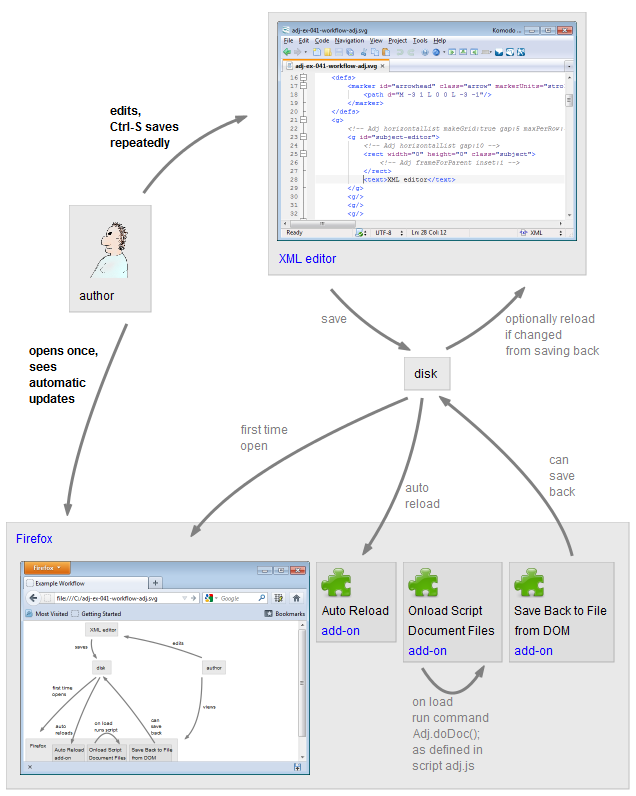
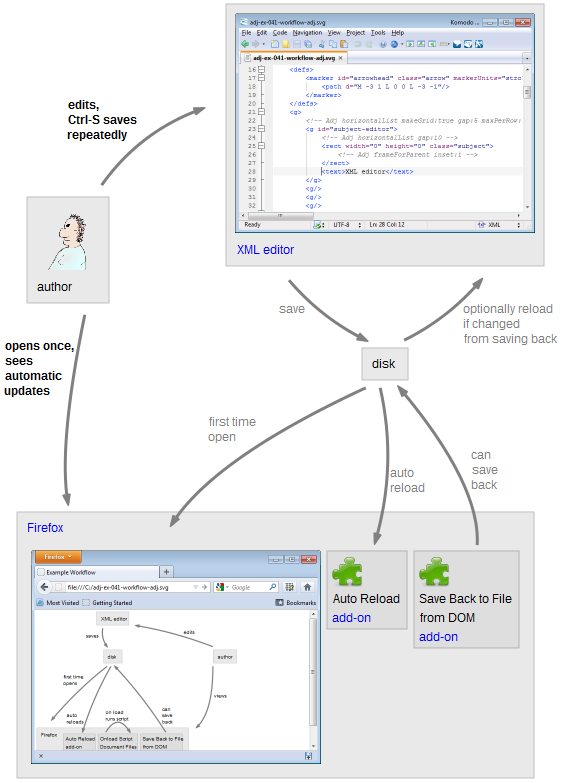
Remove most references to Onload add-on

diff --git a/user-docs/index.html b/user-docs/index.html
@@ -71,10 +71,10 @@ h1,h2,h3,h4,h5,h6 {
 <h1>Adj Framework</h1>
 
 <p class="deemphasize">Note: This user guide's SVG images show in modern
-browsers, i.e. Firefox, Chrome, Safari, Opera, Internet Explorer 9 and newer.
+browsers, i.e. Firefox, Chrome, Safari, Opera, Internet Explorer 10 and newer.
 Older versions Internet Explorer, 8 and earlier, show the <code>alt</code> tag
 text of those <code>img</code> elements instead. Internet Explorer users will
-be <a href="#L2433">better off</a> with Internet Explorer 11 anyway.</p>
+be <a href="#L2433">better off</a> with Internet Explorer 11 and newer.</p>
 
 <div class="toc">
 <ul>
@@ -3346,7 +3346,7 @@ auxiliary authoring tools used.</p>
 <ul>
   <li>Requirements 
     <ul>
-      <li>an XML editor<span class="deemphasize">, e.g. awesome <span
+      <li>an XML editor<span class="deemphasize">, e.g. excellent <span
         class="product-name">Altova <a
         href="http://www.altova.com/xml-editor/">XMLSpy</a></span>, <span
         class="product-name">Adobe <a
@@ -3362,18 +3362,11 @@ auxiliary authoring tools used.</p>
         <ul>
           <li><span class="product-name">Auto Reload</span>, from <a
             href="https://addons.mozilla.org/en-US/firefox/addon/auto-reload/">https://addons.mozilla.org/en-US/firefox/addon/auto-reload/</a><span
-            class="deemphasize">, e.g. version 1.13</span></li>
+            class="deemphasize">, e.g. version 1.20</span></li>
           <li><span class="product-name">Save Back to File from DOM</span>, aka
             <code>save-back-to-file-from-dom.xpi</code>, from <a
             href="https://addons.mozilla.org/en-US/firefox/addon/save-back-to-file-from-dom/">https://addons.mozilla.org/en-US/firefox/addon/save-back-to-file-from-dom/</a><span
-            class="deemphasize">, e.g. 1.rev22</span></li>
-          <li>only if wanting implicit <a href="#L6329">invocation</a> then –
-            <span class="product-name">Onload Script Some Document
-            Files</span>, aka
-            <code>onload-script-some-document-files.xpi</code>, from <a
-            href="https://addons.mozilla.org/en-US/firefox/addon/onload-script-some-documents/">https://addons.mozilla.org/en-US/firefox/addon/onload-script-some-documents/</a><span
-            class="deemphasize">, e.g. 1.rev42</span> – not needed for
-            explicit invocation</li>
+            class="deemphasize">, e.g. 1.0.26</span></li>
         </ul>
       </li>
       <li>Set up a directory which will contain files</li>
@@ -3388,10 +3381,7 @@ auxiliary authoring tools used.</p>
       <li>write SVG in XML editor</li>
       <li>save to disk</li>
       <li>open in <span class="product-name">Firefox</span> browser</li>
-      <li>watch the effects of invocation <span class="deemphasize">– if
-        implicit invocation then courtesy of the <span
-        class="product-name">Onload Script Some Document Files</span>
-        add-on</span></li>
+      <li>watch the effects of invocation</li>
       <li>keep fixing SVG in editor and saving to disk</li>
       <li>keep watching the effects of automatic reloading, courtesy of the
         <span class="product-name">Auto Reload</span> add-on</li>
@@ -3497,8 +3487,8 @@ href="https://addons.mozilla.org/en-US/firefox/addon/onload-script-some-document
 class="product-name">Onload Script Some Document Files</span></a> can do the
 necessary script injection, effecting implicit invocation.</p>
 
-<p>Implicit invocation possibly is of interest to authors who want to
-distribute processed documents only.</p>
+<p>Implicit invocation might be of interest to authors who want to distribute
+processed documents only.</p>
 
 <h3 id="L86788">1.20. More Details</h3>
 
@@ -4012,15 +4002,6 @@ version</p>
                     &lt;text&gt;Auto Reload&lt;/text&gt;
                     &lt;text&gt;add-on&lt;/text&gt;
                 &lt;/g&gt;
-                &lt;g adj:id="add-on-onload-script"&gt;
-                    &lt;adj:verticalList gap="5"/&gt;
-                    &lt;rect width="0" height="0" class="subject"&gt;
-                        &lt;adj:frameForParent inset="1"/&gt;
-                    &lt;/rect&gt;
-                    &lt;text&gt;Onload Script&lt;/text&gt;
-                    &lt;text&gt;Document Files&lt;/text&gt;
-                    &lt;text&gt;add-on&lt;/text&gt;
-                &lt;/g&gt;
                 &lt;g adj:id="add-on-save-back"&gt;
                     &lt;adj:verticalList gap="5"/&gt;
                     &lt;rect width="0" height="0" class="subject"&gt;
@@ -4059,16 +4040,6 @@ version</p>
                 &lt;adj:verticalList gap="1"/&gt;
                 &lt;text&gt;auto&lt;/text&gt;
                 &lt;text&gt;reloads&lt;/text&gt;
-            &lt;/g&gt;
-        &lt;/g&gt;
-        &lt;g&gt;
-            &lt;adj:connection from="add-on-onload-script % 0.2, -0.05" to="add-on-onload-script % 0.8, -0.05"/&gt;
-            &lt;path class="arrow" d="M0,0 q50,-50 100,0" stroke-width="3" marker-end="url(#arrowhead)"/&gt;
-            &lt;g&gt;
-                &lt;adj:rider at="0.5" pin="0.5,1"/&gt;
-                &lt;adj:verticalList gap="1"/&gt;
-                &lt;text&gt;on load&lt;/text&gt;
-                &lt;text&gt;runs script&lt;/text&gt;
             &lt;/g&gt;
         &lt;/g&gt;
         &lt;g&gt;
